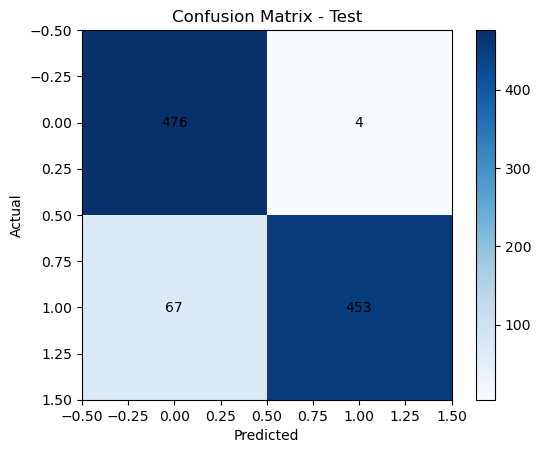
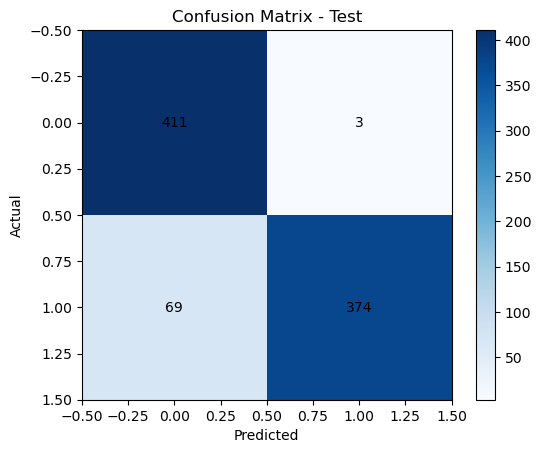
Atualização dos códigos

diff --git a/src/data/preprocess.py b/src/data/preprocess.py
@@ -13,23 +13,19 @@ import yaml
 from sklearn.model_selection import train_test_split
 import os
 
-
+# Define a pasta
 if "__file__" in globals():
     BASE_DIR = Path(__file__).resolve().parents[2]
 else:
     BASE_DIR = Path(os.getcwd()).resolve()
 
-
+# Carrega parametros do modelo
 def load_params():
     with open(BASE_DIR / "params.yaml", "r", encoding="utf-8") as f:
         return yaml.safe_load(f)
 
-
+# Cria as features
 def build_features(df: pd.DataFrame) -> pd.DataFrame:
-    """
-    Cria features derivadas relevantes a partir dos custos e volumes trimestrais.
-    Atende ao requisito de ter pelo menos 5 novas features.
-    """
     df = df.copy()
 
     # 1) custo médio anual
@@ -57,26 +53,24 @@ def build_features(df: pd.DataFrame) -> pd.DataFrame:
 
     return df
 
-
+# Pré-processamento do dado de entrada
 def preprocess():
     params = load_params()
     cfg_pre = params["preprocess"]
 
     raw_path = BASE_DIR / "data" / "raw" / "procedimentos_medicos.csv"
     df = pd.read_csv(raw_path)
+    
+    # Informações do dateset
+    print(df.info())
+    print(df.isna().sum())
+    
+    # Tratamento simples de missing
+    # Como temos poucos valores anulos iremos dropar ele
+    df = df.dropna()
 
     # Feature engineering
     df = build_features(df)
-
-    # Tratamento simples de missing
-    num_cols = df.select_dtypes(include=["number"]).columns.tolist()
-    cat_cols = df.select_dtypes(include=["object"]).columns.tolist()
-
-    for col in num_cols:
-        df[col] = df[col].fillna(df[col].median())
-
-    for col in cat_cols:
-        df[col] = df[col].fillna(df[col].mode()[0])
 
     # Separa target
     target_col = "target"
@@ -86,6 +80,7 @@ def preprocess():
     # One-hot encoding simples (árvores lidam bem com isso)
     X = pd.get_dummies(X, drop_first=True)
 
+    # Separa os dados em treino e teste
     X_train, X_test, y_train, y_test = train_test_split(
         X,
         y,
@@ -104,6 +99,7 @@ def preprocess():
     out_dir = BASE_DIR / "data" / "processed"
     out_dir.mkdir(parents=True, exist_ok=True)
 
+    # Salva os dados
     train_df.to_csv(out_dir / "train.csv", index=False)
     test_df.to_csv(out_dir / "test.csv", index=False)
 

diff --git a/src/models/evaluate.py b/src/models/evaluate.py
@@ -41,17 +41,14 @@ from sklearn.metrics import (
 from src.utils.mlflow_utils import setup_mlflow, log_metrics_dict
 
 
-# -------------------------------------------------------------------
-# BASE_DIR compatível com script e notebook
-# -------------------------------------------------------------------
+# Define a pasta
 if "__file__" in globals():
     BASE_DIR = Path(__file__).resolve().parents[2]
 else:
     BASE_DIR = Path(os.getcwd()).resolve()
 
-
+# Carrega o dataset de teste após ser processado
 def load_test_data():
-    """Carrega o conjunto de teste processado."""
     test_path = BASE_DIR / "data" / "processed" / "test.csv"
     if not test_path.exists():
         raise FileNotFoundError(f"Arquivo de teste não encontrado: {test_path}")
@@ -65,9 +62,8 @@ def load_test_data():
     X_test = df_test.drop(columns=["target"])
     return X_test, y_test
 
-
+# Carrega o modelo salvo em models/best_model.pkl
 def load_best_model():
-    """Carrega o modelo salvo em models/best_model.pkl."""
     model_path = BASE_DIR / "models" / "best_model.pkl"
     if not model_path.exists():
         raise FileNotFoundError(f"Modelo não encontrado: {model_path}")

diff --git a/src/models/train.py b/src/models/train.py
@@ -38,24 +38,20 @@ from src.utils.mlflow_utils import (
     log_params_dict,
 )
 
-# -------------------------------------------------------------------
-# Paths base (funciona tanto em script quanto em notebook)
-# -------------------------------------------------------------------
+# Define a pasta
 if "__file__" in globals():
     BASE_DIR = Path(__file__).resolve().parents[2]
 else:
     BASE_DIR = Path(os.getcwd()).resolve()
 
-
-def load_params() -> dict:
-    """Carrega parâmetros do arquivo params.yaml."""
+# Carrega parametros do modelo
+def load_params():
     params_path = BASE_DIR / "params.yaml"
     with open(params_path, "r", encoding="utf-8") as f:
         return yaml.safe_load(f)
 
-
+# Carrega o dataset de treino após ser processado
 def load_train_data():
-    """Carrega o conjunto de treino processado gerado pelo estágio 'preprocess'."""
     train_path = BASE_DIR / "data" / "processed" / "train.csv"
     df = pd.read_csv(train_path)
 
